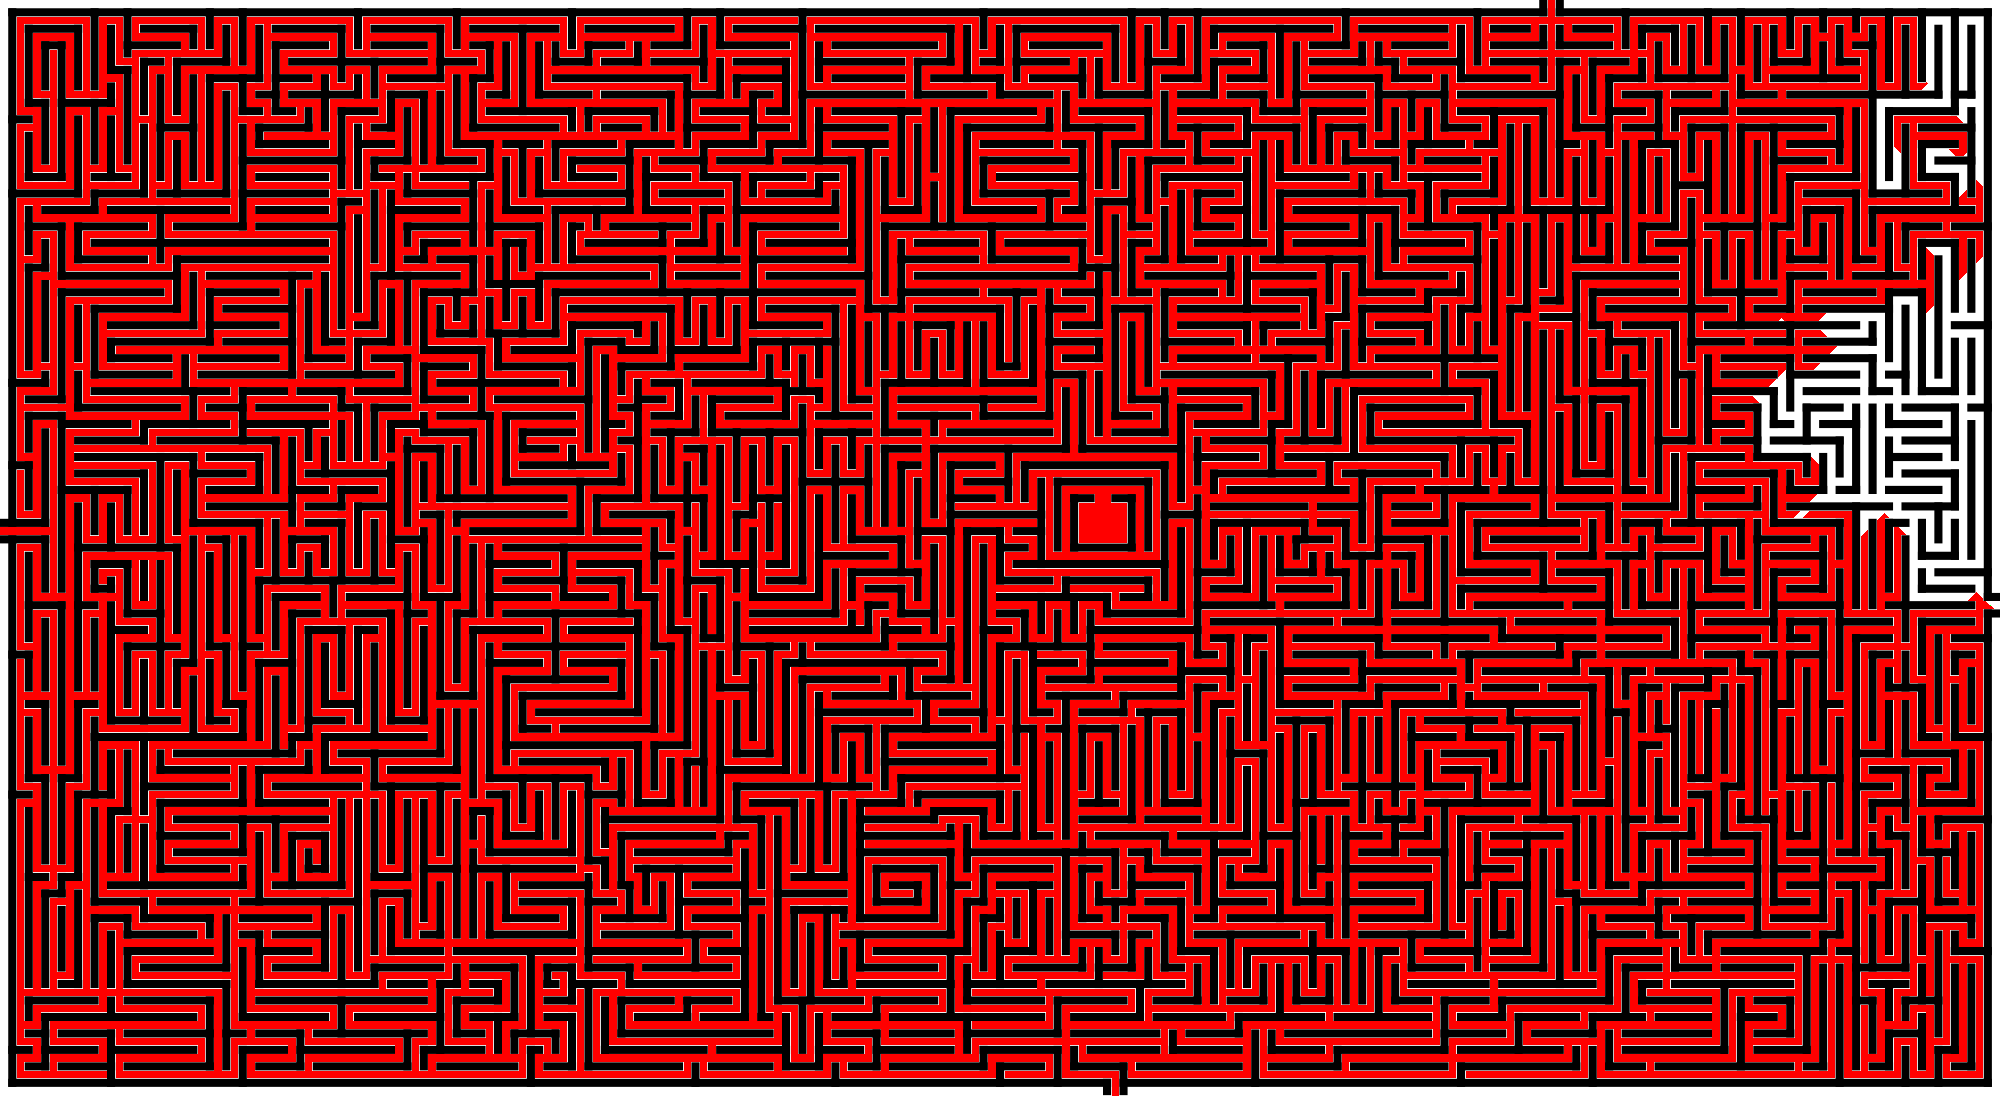
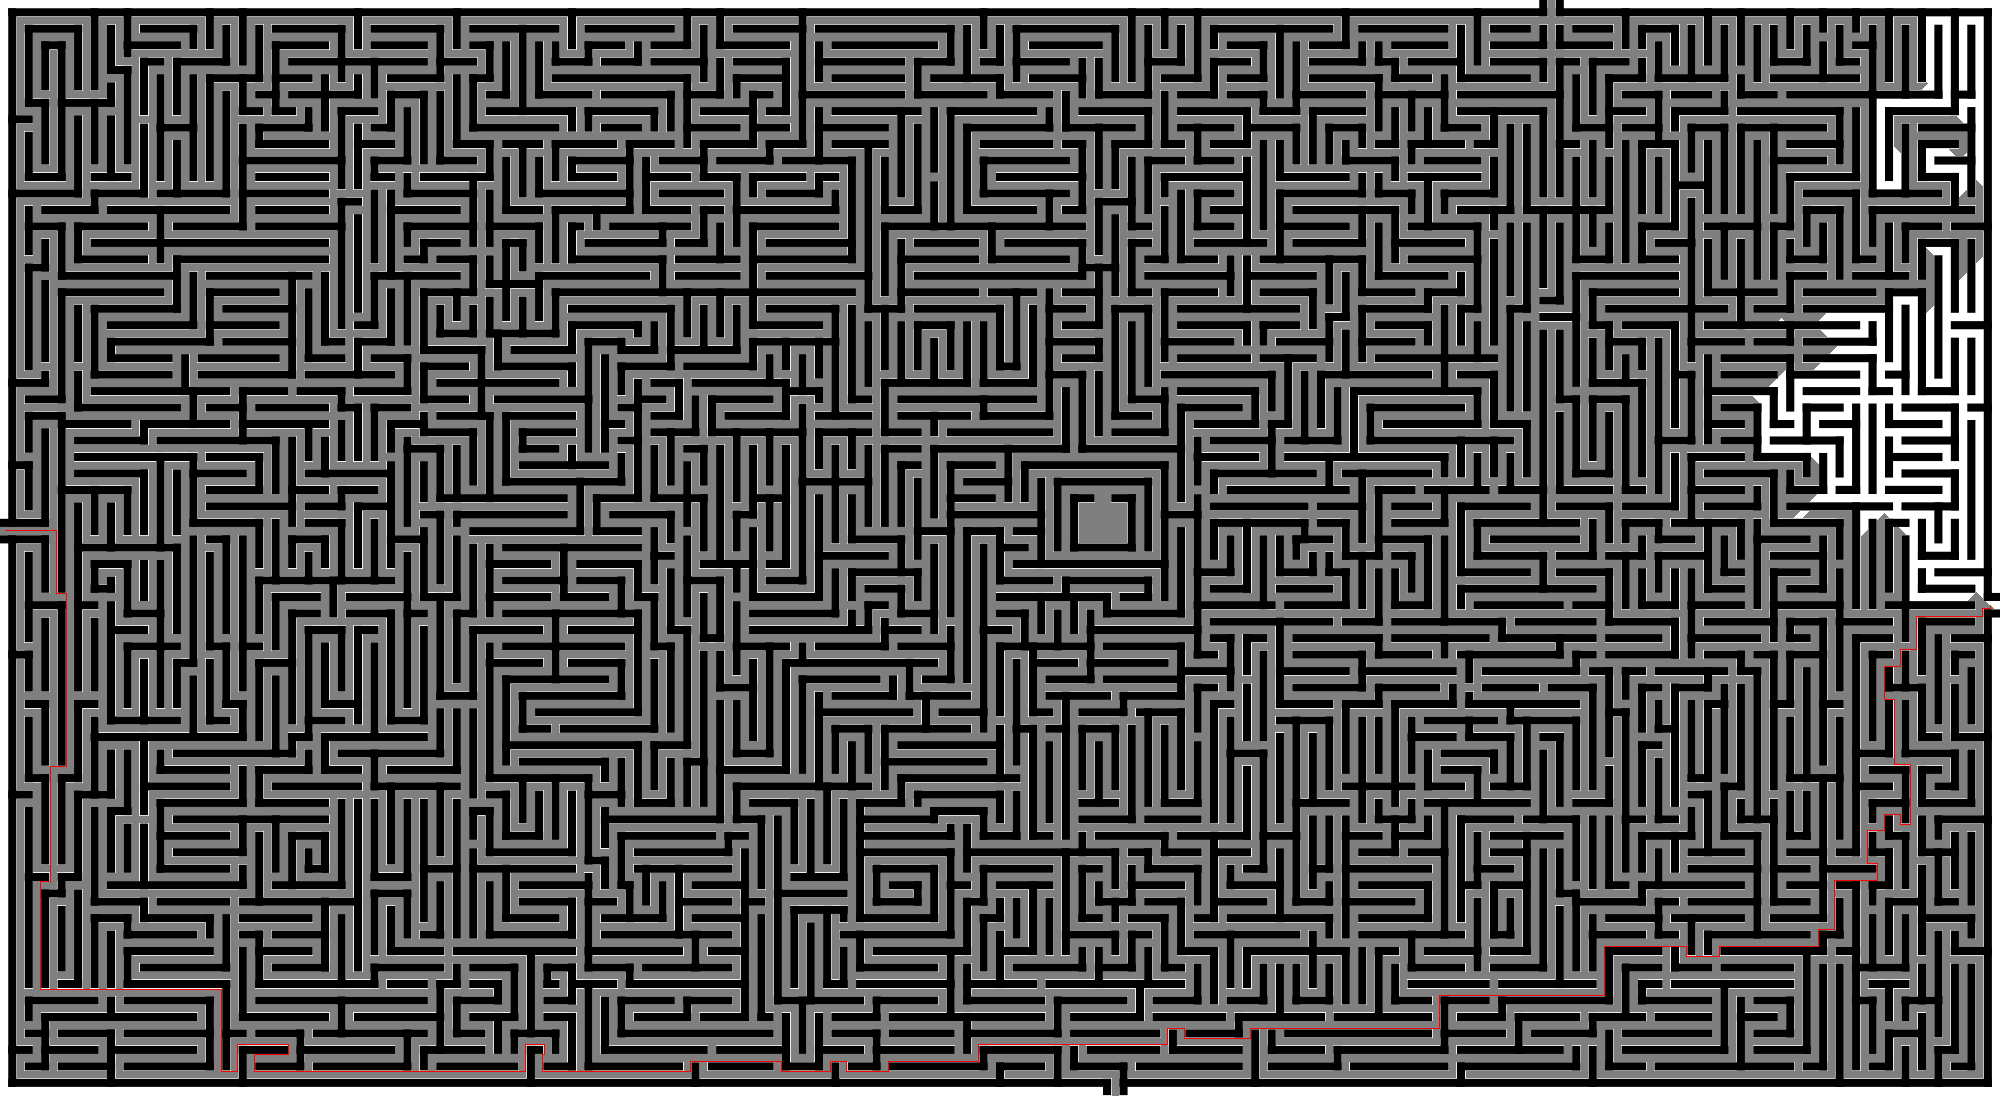
painting visited pixels with gray

diff --git a/maze/maze.py b/maze/maze.py
@@ -61,7 +61,7 @@ class Maze(object):
                     print 'Found solution'
                     break
                 if self.base_pixels[x, y] == colors.WHITE:
-                    self.base_pixels[x, y] = colors.RED
+                    self.base_pixels[x, y] = colors.GRAY
                     new_path = list(path)
                     new_path.append(adjacent)
                     queue.put(new_path)

diff --git a/maze/colors.py b/maze/colors.py
@@ -1,4 +1,4 @@
 __author__ = 'bruno'
 
 RED, GREEN, BLUE = (255, 0, 0, 255), (0, 255, 0, 255), (0, 0, 255, 255)
-BLACK, WHITE = (0, 0, 0, 255), (255, 255, 255, 255)
+BLACK, WHITE, GRAY = (0, 0, 0, 255), (255, 255, 255, 255), (127, 127, 127, 255)
